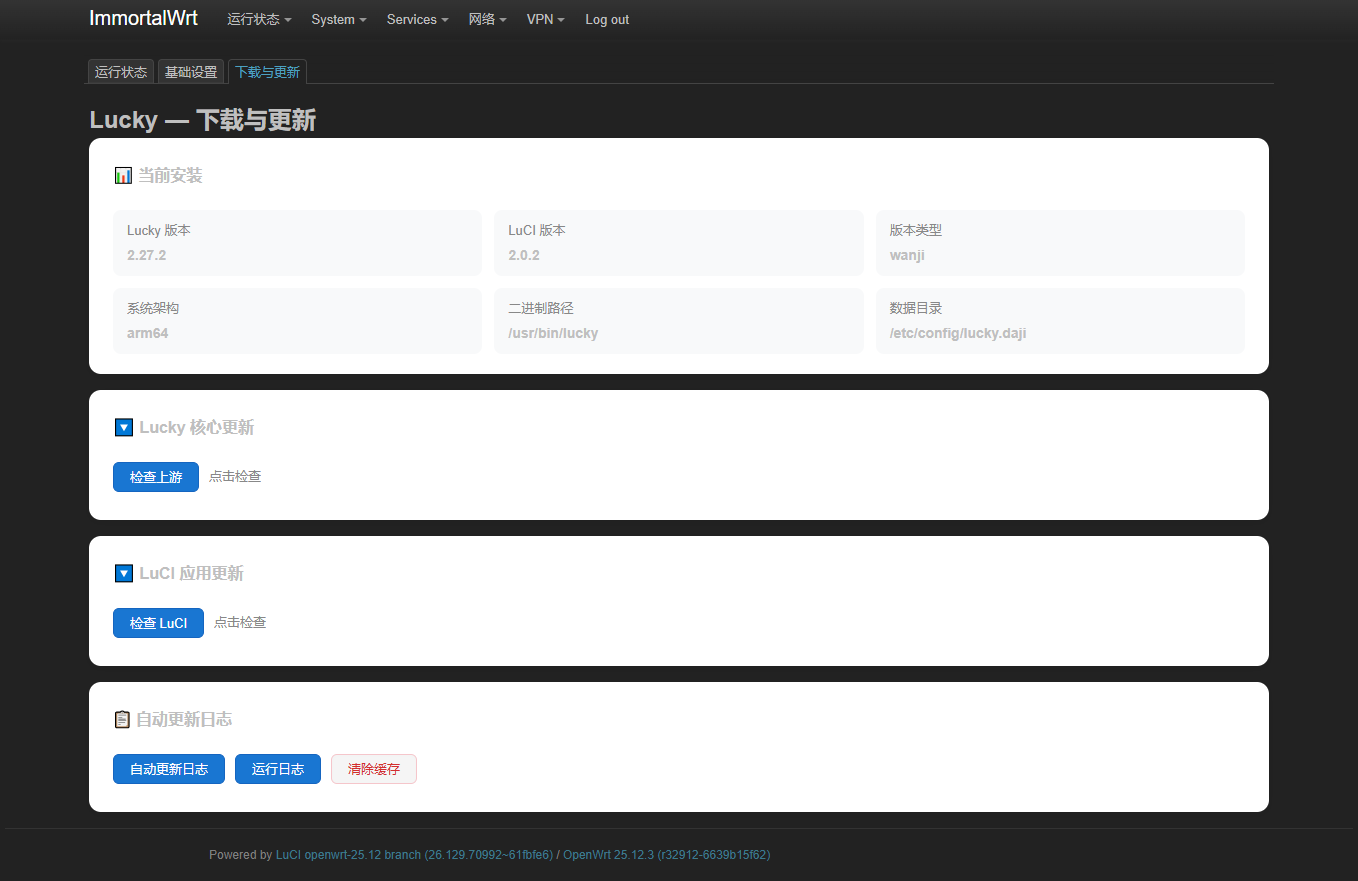
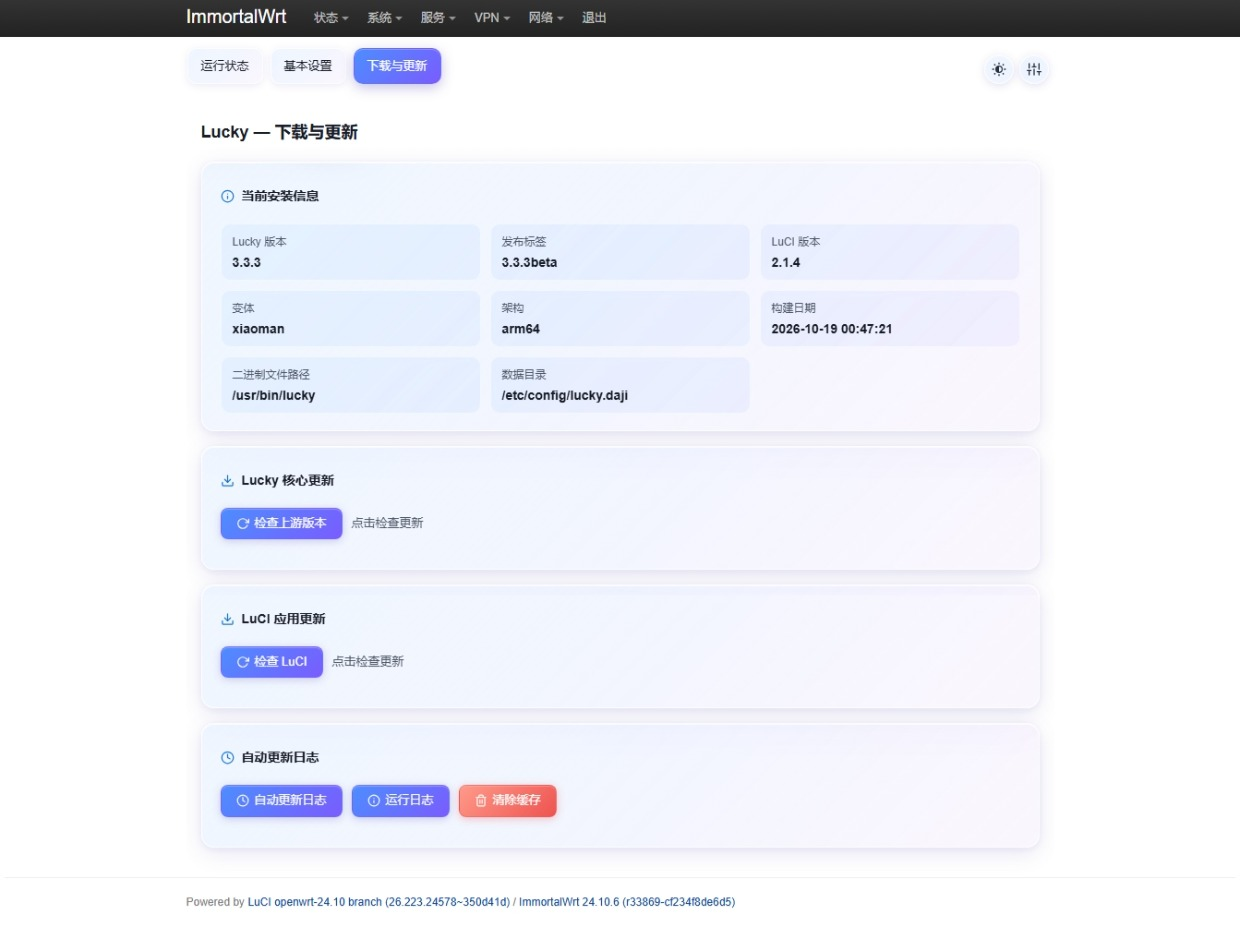
update: 2026-11-04 00:33:11

diff --git a/README.md b/README.md
@@ -1,34 +1,46 @@
+
 # luci-app-lucky — 稳定可靠的 Lucky 管理插件 for OpenWrt
 
-`luci-app-lucky` 是一个为 OpenWrt 定制的 Luci 界面插件，用于管理 [Lucky](https://github.com/gdy666/lucky) 网络工具。与同类项目相比，本插件在固件更新、进程守护、版本选择和架构适配方面做了深度优化，让 Lucky 的部署和维护更加省心。
+`luci-app-lucky` 是一个为 OpenWrt 定制的 LuCI 界面插件，用于管理 [Lucky](https://github.com/gdy666/lucky) 网络工具。与同类项目相比，本插件在固件更新、进程守护、版本选择和架构适配方面做了深度优化，让 Lucky 的部署和维护更加省心。
 
 ---
 
 ## ✨ 特性亮点
 
 - **配置持久化**  
-  将 Lucky 的数据目录默认设置为 `/config/lucky.daji`（而非 `/etc/lucky`），**固件升级配置不会丢失**，无需手动备份。
+  默认将 Lucky 数据目录设置为 `/config/lucky.daji`（而非 `/etc/lucky`），也支持手动修改。固件升级时保留配置，升级后数据不会丢失，无需手动备份。
 
 - **进程守护**  
-  集成 `Respawn` 机制，当 Lucky 主进程意外崩溃或退出时，**自动重新拉起**，保证服务持续可用。
+  集成 `Respawn` 机制。当 Lucky 主进程意外崩溃或退出时，插件会自动重新拉起进程，保证服务持续可用。
 
 - **灵活的目录定制**  
-  支持在 Luci 界面中**自定义 Lucky 数据目录**和**程序安装目录**，满足不同存储布局需求。
+  支持在 LuCI 界面中自定义 Lucky 数据目录和程序安装目录，满足不同存储布局需求。
 
 - **多版本一键切换**  
-  可从官方仓库（[GitHub](https://github.com/gdy666/lucky)）或官网（[https://release.66666.host](https://release.66666.host)）**自动检测更新**，并支持选择 **标准版**、**万吉版（wanji）** 和 **Beta 版**。
+  可从官方仓库（[GitHub](https://github.com/gdy666/lucky)）或官网（[https://release.66666.host](https://release.66666.host)）自动检测更新，并支持选择以下版本：
+  - 标准版
+  - 万吉版（wanji）
+  - Beta 版
+  - 基础精简版（XiaoJV）
+  - 精简版 + WAF（XiaoJV WAF）
+  - 万吉精简版（xiaoman）
+  - Lucky Docker 版
+  - Wanji Docker 版
 
 - **智能架构适配**  
-  无需手动安装架构对应的二进制包，`luci-app-lucky` 会自动下载匹配的版本。  
-  > 本质上，aarch64/ARM64、A53、A55、A72 等 CPU 架构共用同一个二进制包。如果为每个架构单独编译，会浪费大量时间，这就是本项目不需要单独安装架构包、改为自动下载的由来。
+  无需手动安装对应架构的二进制包，`luci-app-lucky` 会自动下载匹配的版本。  
+  > 本质上，aarch64/ARM64、A53、A55、A72 等 CPU 架构共用同一个二进制包。如果为每个架构单独编译，会浪费大量时间，因此本项目不需要单独安装架构包，而是改为自动下载。
 
 ---
 
-## 📌 安装须知 
-- 本 LuCI 插件基于 **UCODE（非 Lua）** 开发  
-- 需要的最低 OpenWrt 版本：**OpenWrt 22.03 及以上**  
-- **不兼容 QWRT（基于 OpenWrt 21.02 的系统）**  
-- 使用旧版本 OpenWrt（21.xx 或更早）将无法正常运行本插件  
+## 📌 安装须知
+
+- 本 LuCI 插件基于 **UCode（非 Lua）** 开发。
+- 需要的最低 OpenWrt 版本：**OpenWrt 22.03 及以上**。
+- **不兼容 QWRT（基于 OpenWrt 21.02 的系统）**。
+- 使用旧版本 OpenWrt（22.02 或更早）将无法正常运行本插件。
+
+---
 
 ## 📦 快速安装
 
@@ -44,17 +56,25 @@ curl -fsSL "https://gitlab.com/whzhni/tailscale/-/raw/main/Auto_Install_Script.s
 wget -q -O - "https://gitlab.com/whzhni/tailscale/-/raw/main/Auto_Install_Script.sh" | sh -s luci-app-lucky
 ```
 
-脚本会自动完成依赖检查、软件包下载和 Luci 界面注册，安装后可在 OpenWrt 管理页面的 **服务** 菜单中找到 **Lucky** 配置入口。
+脚本会自动完成依赖检查、软件包下载和 LuCI 界面注册。安装后，可在 OpenWrt 管理页面的 **服务** 菜单中找到 **Lucky** 配置入口。
 
 ---
 
 ## ⚙ 配置说明
 
-安装完成后，通过 Luci 界面进入 **Lucky** 配置页面，你可以：
+安装完成后，通过 LuCI 界面进入 **Lucky** 配置页面，你可以：
 
 - 修改 **数据存储目录**（默认 `/config/lucky.daji`）
-- 修改 **程序文件目录**（默认`/usr/bin/lucky`）
-- 切换 **Lucky 版本**（标准/万吉/Beta）
+- 修改 **程序文件目录**（默认 `/usr/bin/lucky`）
+- 切换 **Lucky 版本**：
+  - 标准版
+  - 万吉版（wanji）
+  - Beta 版
+  - 基础精简版（XiaoJV）
+  - 精简版 + WAF（XiaoJV WAF）
+  - 万吉精简版（xiaoman）
+  - Lucky Docker 版
+  - Wanji Docker 版
 - 开启/关闭 **自动更新**（支持从 GitHub 或官网拉取）
 - 查看当前运行状态、日志以及进程守护状态
 
@@ -62,12 +82,14 @@ wget -q -O - "https://gitlab.com/whzhni/tailscale/-/raw/main/Auto_Install_Script
 
 ## 🔄 更新与维护
 
-- **自动更新**：开启后，插件会定期检查官方源的新版本，自动升级或手动在插件页面检查更新。
-- **手动更新**：在 Luci 界面点击“检查更新”按钮即可。
-- **进程管理**：若 Lucky 进程异常退出，`Respawn` 会在30秒内将其重新启动，1小时内连续5次启动失败则放弃启动，无需人工干预,可在设置页面自定义设置。
+- **自动更新**：开启后，插件会定期检查官方源的新版本并自动升级；也可在插件页面手动检查更新。
+- **手动更新**：在 LuCI 界面点击“检查更新”按钮即可。
+- **进程管理**：若 Lucky 进程异常退出，`Respawn` 会在 30 秒内将其重新启动；若 1 小时内连续 5 次启动失败，则放弃启动。相关参数可在设置页面自定义。
 
 ---
-![状态](images/lucky_status.png)
-![设置](images/lucky_config.png)
-![更新](images/lucky_update.png)
 
+## 🖼 界面预览
+
+![状态](images/lucky_status.png)  
+![设置](images/lucky_config.png)  
+![更新](images/lucky_update.png)
